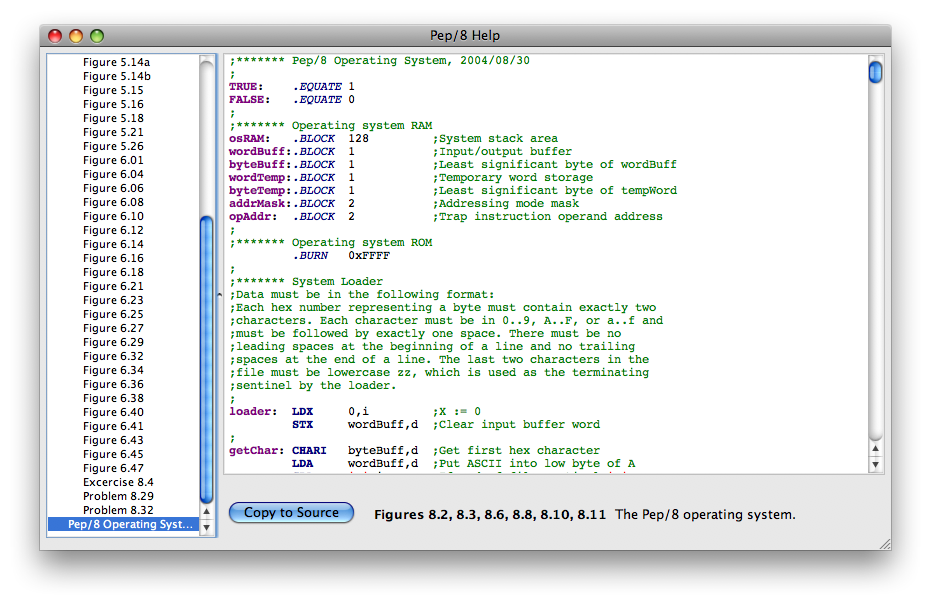
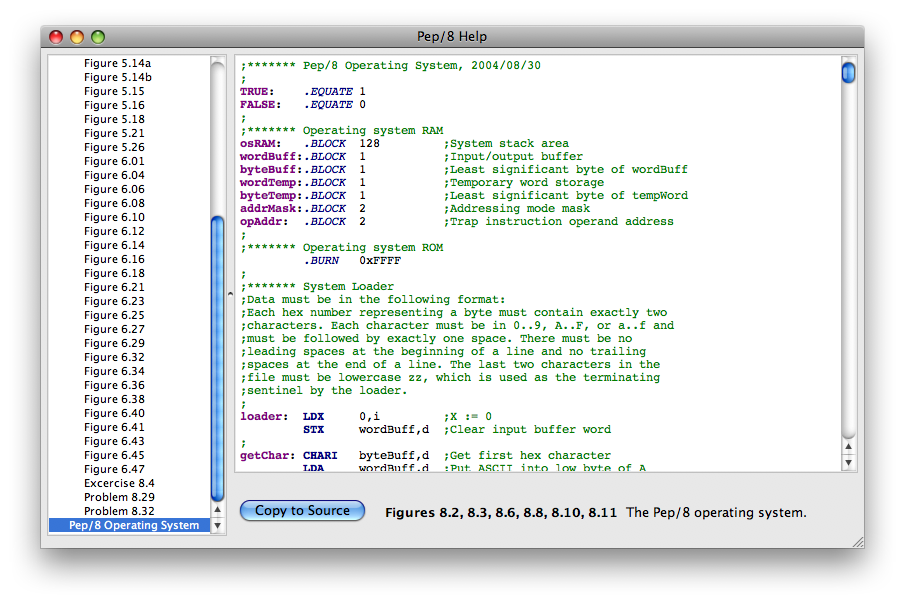
Slight change to the stack pointer highlight (magenta now), as well as more documentation screenshot updates.
git-svn-id: http://pep8-1.googlecode.com/svn/trunk@299 0efa5a84-20a4-11de-9909-f37ff7dbbc12

Changed region(s): [[0.0309, 0.0298, 0.9591, 0.9238]]

diff --git a/help/debuggingprograms.html b/help/debuggingprograms.html
@@ -39,7 +39,7 @@ View the Memory Dump pane by selecting View->Code/CPU/Memory from the menu or by
 The Pep/8 application may run noticibly slower when the Memory Dump pane is visible.
 You can click either of the other two view icons to hide the Memory Dump pane.
 <p>
- <i>Image of the other two view icons.</i>
+ <img src="images/codecodememory.png" alt="codecodememory" hspace=10 vspace=10>
 <h4>Switching to debug mode</h4>
 To use the Memory Dump pane you must first switch to the debug mode.
 If you are debugging a machine language program that you wrote, the first step is to enter the program in hexadecimal in the Object Code pane.
@@ -100,6 +100,10 @@ The Operand field in the CPU pane is enclosed in parentheses to emphasize the fa
  The following screen shot shows the Memory Dump pane after the first click of the Single Step button.
 <p>
 <img src="qrc:/help/images/fig0434memorydump.png" alt="fig0434memorydump" hspace=10 vspace=10>
+<p>
+<i>The Memory Dump pane will also highlight the stack pointer in magenta, as in this screenshot of Figure 6.1's stack:</i>
+<p>
+<img src="qrc:/help/images/stackpointer.png" alt="stackpointer" hspace=10 vspace=10>
 <p>
 Each line of the Memory Dump pane displays eight bytes, each byte represented as two hexadecimal digits.
 The address in the first column is the address of the first byte.

diff --git a/help/writingprograms.html b/help/writingprograms.html
@@ -33,7 +33,7 @@ You can change which of these panels is visible by making the appropriate select
 icon on the tool bar.
 <p>
 <img src="qrc:/help/images/codecpumemory.png" alt="codecpumemory" hspace=10 vspace=10>
-<img src="qrc:/help/images/codecpumemoryicon.png" alt="codecpumemoryicon" hspace=10 vspace=10>
+<img src="qrc:/help/images/viewicon.png" alt="viewicon" hspace=10 vspace=10>
 <p>
 
 <h3><a name="Input">Input and output</a></h3>

diff --git a/memorydumppane.cpp b/memorydumppane.cpp
@@ -106,7 +106,7 @@ void MemoryDumpPane::highlightMemory(bool b)
     }
 
     if (b) {
-        highlightByte(Sim::stackPointer, Qt::white, Qt::darkCyan);
+        highlightByte(Sim::stackPointer, Qt::white, Qt::darkMagenta);
         highlightedData.append(Sim::stackPointer);
         
         if (!Pep::isUnaryMap.value(Pep::decodeMnemonic.value(Sim::readByte(Sim::programCounter)))) {
